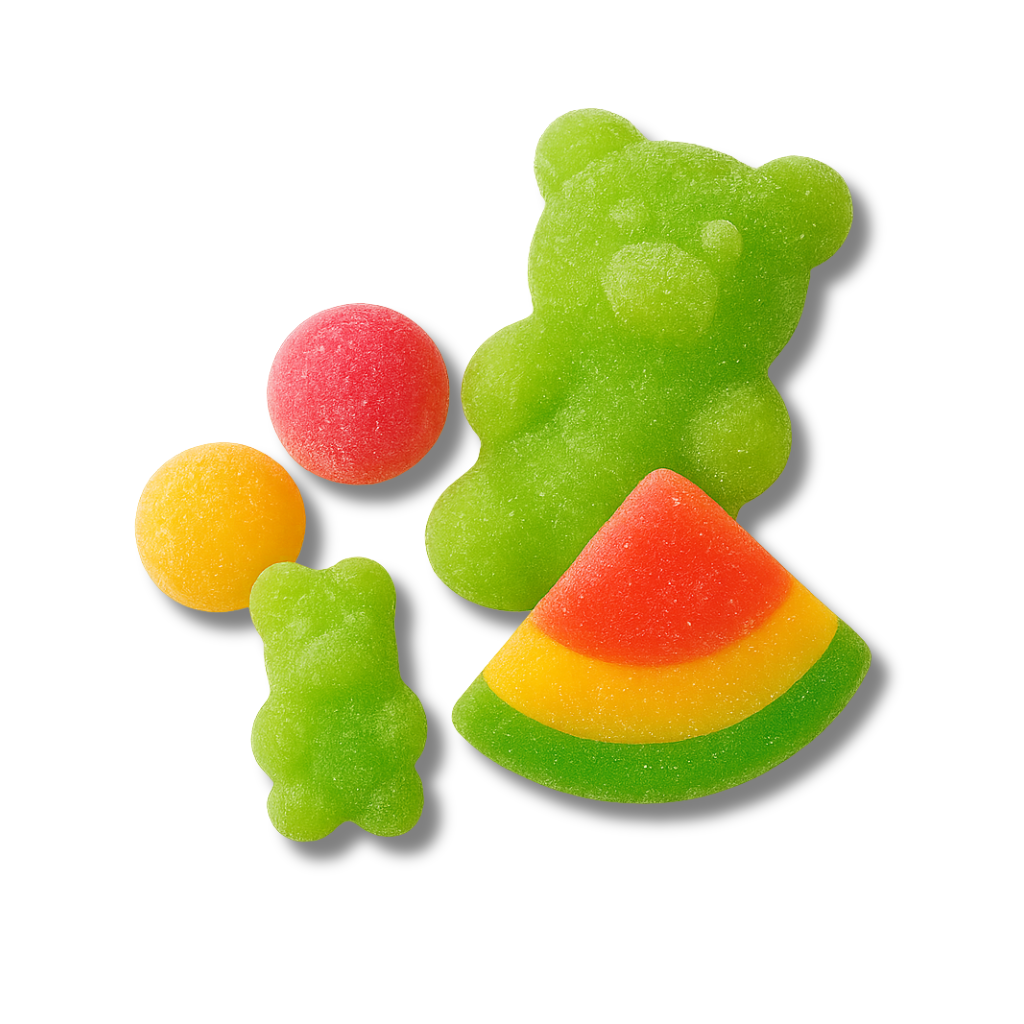
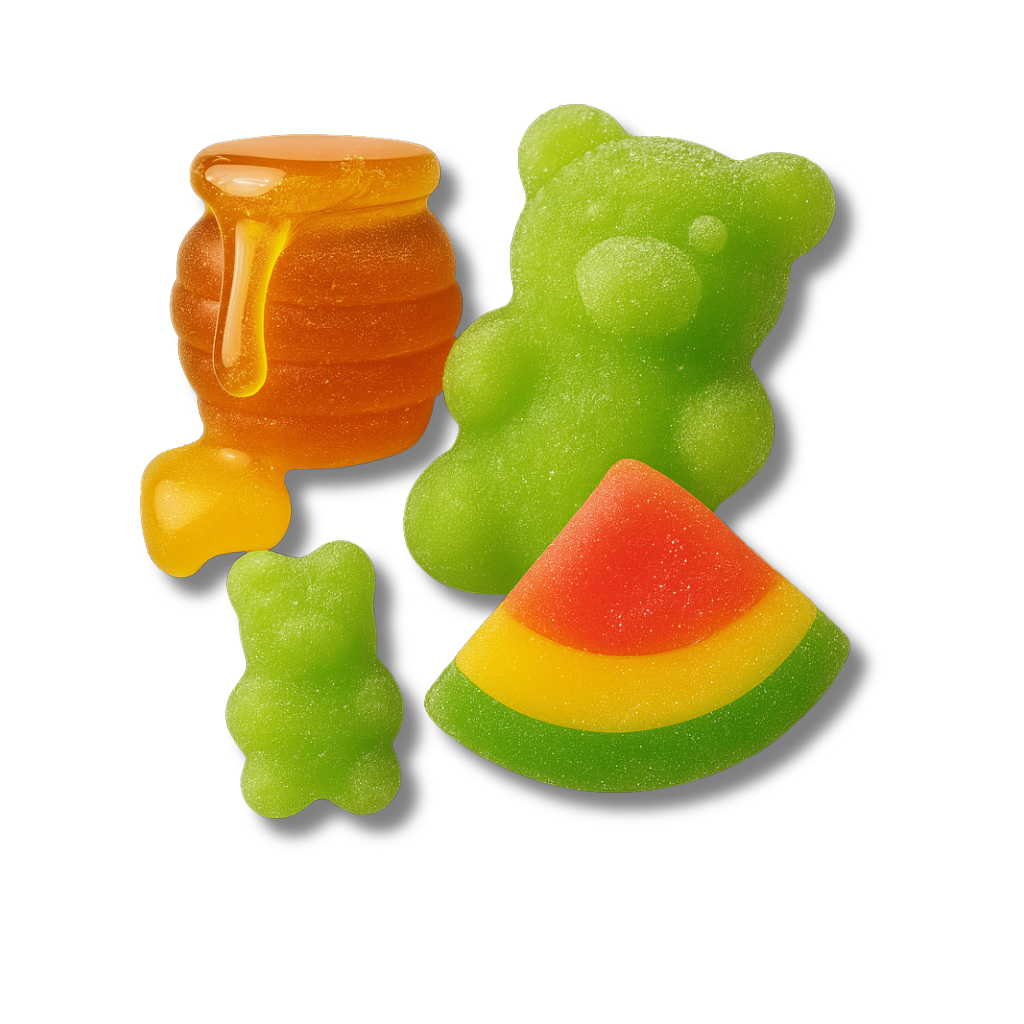
feat: adicao da nova imagem de title + modal de introducao

Changed region(s): [[0.125, 0.0938, 0.875, 0.8438]]

diff --git a/src/components/pages/home/components/brand-change-modal.tsx b/src/components/pages/home/components/brand-change-modal.tsx
@@ -1,0 +1,103 @@
+// components/common/BrandChangeModal.tsx
+import React, { useEffect, useState } from 'react'
+import styled from '@emotion/styled'
+import Link from 'next/link'
+import { Button } from '@/components/shared/button'
+import Image from 'next/image'
+
+const Overlay = styled.div`
+  position: fixed;
+  inset: 0;
+  background: rgba(255, 255, 255, 0.2);
+  backdrop-filter: blur(10px);
+  -webkit-backdrop-filter: blur(10px);
+  display: flex;
+  align-items: center;
+  justify-content: center;
+  z-index: 1000;
+`
+
+const Modal = styled.div`
+  position: relative;
+  background: rgba(255, 255, 255, 0.95) url('/imgs/modal-bg-pattern.svg') no-repeat bottom right;
+  background-size: 120px;
+  padding: 3rem 2rem 2rem;
+  border-radius: 12px;
+  width: 85%;
+  max-width: 700px;
+  text-align: left;
+  box-shadow: 0 6px 20px rgba(0, 0, 0, 0.2);
+  display: flex;
+  flex-direction: column;
+  justify-content: flex-start;
+  @media (max-width: 768px) {
+    width: 95%;
+    padding: 2rem 1.5rem;
+  }
+`
+
+const Title = styled.h2`
+  margin: 0 0 1rem;
+  font-size: 2rem;
+  line-height: 1.2;
+`
+
+const Content = styled.p`
+  margin: 0 0 1rem;
+  line-height: 1.6;
+  font-size: 1rem;
+`
+
+const Footer = styled.div`
+  margin-top: 1rem;
+  display: flex;
+  justify-content: flex-end;
+  gap: 1rem;
+`
+
+const CloseButton = styled.button`
+  position: absolute;
+  top: 0.5rem;
+  right: 1rem;
+  background: none;
+  border: none;
+  font-size: 1.5rem;
+  cursor: pointer;
+`
+
+const BrandChangeModal: React.FC = () => {
+  const [visible, setVisible] = useState(false)
+  useEffect(() => {
+    if (typeof window === 'undefined') return
+    const seen = localStorage.getItem('hasSeenBrandModal')
+    if (!seen) {
+      setVisible(true)
+      localStorage.setItem('hasSeenBrandModal', 'true')
+    }
+  }, [])
+  useEffect(() => {
+    document.body.style.overflow = visible ? 'hidden' : ''
+    return () => { document.body.style.overflow = '' }
+  }, [visible])
+  if (!visible) return null
+  return (
+    <Overlay onClick={() => setVisible(false)}>
+      <Modal onClick={e => e.stopPropagation()}>
+        <CloseButton onClick={() => setVisible(false)}>&times;</CloseButton>
+        <Title>Conheça nossa nova identidade</Title>
+        <Content>A antiga <strong>Brasil Cannabis</strong> agora evoluiu para <strong>American Cannabis</strong>.</Content>
+        <Content>Oferecemos produtos canábicos premium, de óleos e extratos a gomas e itens de bem-estar, todos rigorosamente selecionados e testados.</Content>
+        <Content>Com logística ágil e transparência total, entregamos para todo o Brasil e garantimos uma experiência de compra excepcional com suporte dedicado.</Content>
+        <Footer>
+          <Link href="#about" passHref>
+            <Button onClick={() => setVisible(false)}>
+              Saiba mais
+              <Image src="imgs/arrow-right-svgrepo-com.svg" alt="" height={36} width={36} />
+            </Button>
+          </Link>
+        </Footer>
+      </Modal>
+    </Overlay>
+  )
+}
+export default BrandChangeModal

diff --git a/src/components/pages/home/home.tsx b/src/components/pages/home/home.tsx
@@ -9,6 +9,7 @@ import HeroRotator from "./components/hero-rotator";
 import { keyframes } from "@emotion/react";
 import Image from "next/image";
 import { Feedback } from "@/pages";
+import BrandChangeModal from "./components/brand-change-modal";
 
 const floatAnimation = keyframes`
   0%   { transform: translateY(0)   rotate(0deg); }
@@ -89,8 +90,8 @@ const GummyImageContainer = styled.div`
   img {
     position: absolute;
     width: 40.125rem !important;
-    top: -4.375rem;
-    right: -6.0625rem;
+    top: -3.375rem;
+    right: -7.0625rem;
     will-change: transform;
     animation: ${floatAnimation} 7s ease-in-out infinite;
     opacity: 0.95;
@@ -291,6 +292,7 @@ type HomePageComponentProps = {
   featured: ProductSummary[]
   feedbacks?: Feedback[];
 }
+
 export const HomePageComponent: React.FC<HomePageComponentProps> = ({ featured, feedbacks }) => {
   return (
     <Layout>
@@ -355,6 +357,8 @@ export const HomePageComponent: React.FC<HomePageComponentProps> = ({ featured, 
       </AboutCompanyContainer>
 
       <CustomerFeedbackSection feedbacks={feedbacks!} />
+
+      <BrandChangeModal />
     </Layout>
   )
 }

diff --git a/src/components/shared/button.tsx b/src/components/shared/button.tsx
@@ -32,9 +32,9 @@ const ButtonContainer = styled.button`
   }
 `;
 
-export const Button: React.FC<{ children: React.ReactNode }> = ({ children }) => {
+export const Button: React.FC<{ children: React.ReactNode, onClick?: () => void }> = ({ children, onClick }) => {
   return (
-    <ButtonContainer>
+    <ButtonContainer onClick={onClick}>
       <span>{children}</span>
     </ButtonContainer>
   )
